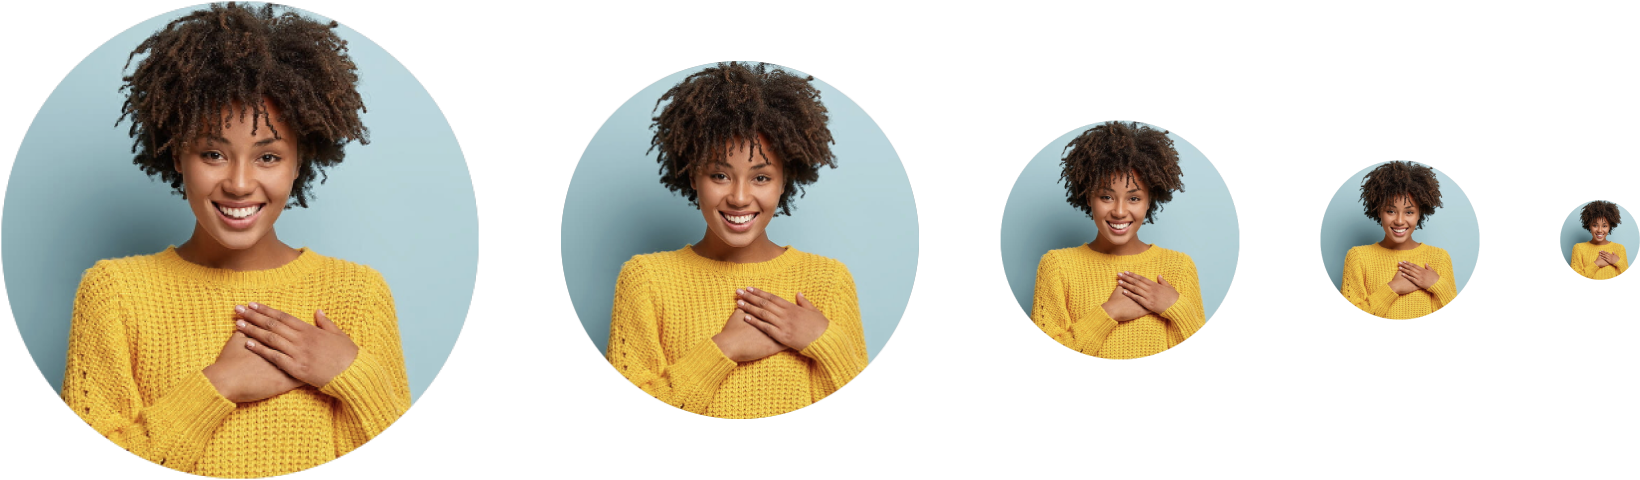
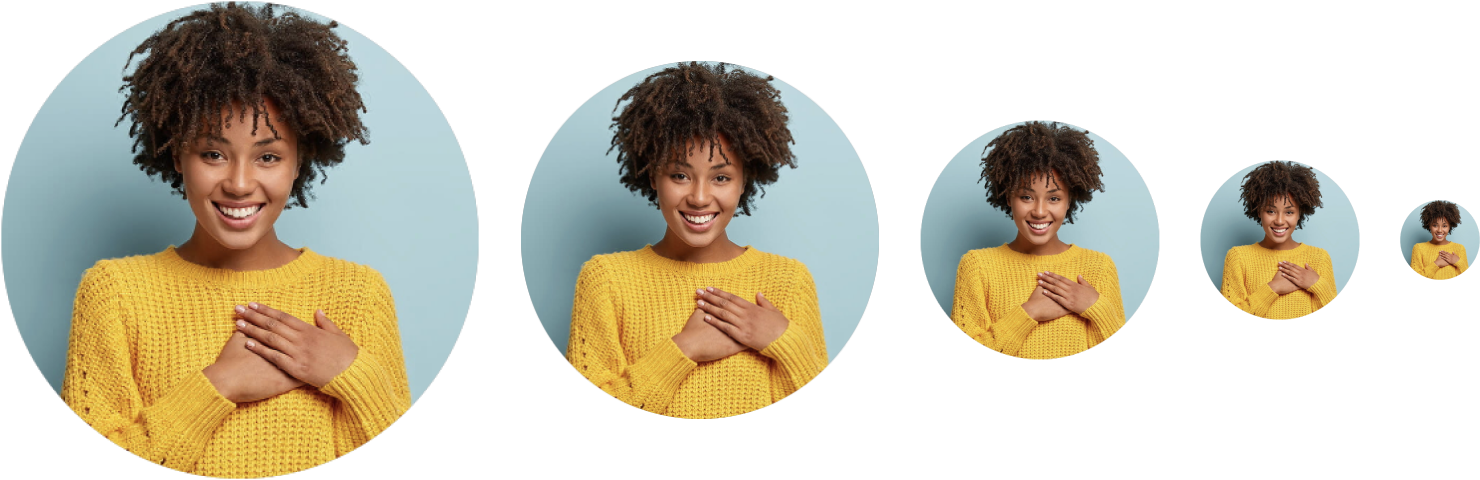
x

diff --git a/README.md b/README.md
@@ -75,7 +75,7 @@ Widget nullAvatarBrick() => AvatarBrick();
 
 #### Customize the avatar size
 
-<a href="https://github.com/congson99/avatar_brick/blob/son/release1.0.0/assets/screenshots/example_size.png?raw=true"><img src="https://github.com/congson99/avatar_brick/blob/son/release1.0.0/assets/screenshots/example_size.png?raw=true" alt="Icon" height="280"></a>
+<a href="https://github.com/congson99/avatar_brick/blob/son/release1.0.0/assets/screenshots/example_size.png?raw=true"><img src="https://github.com/congson99/avatar_brick/blob/son/release1.0.0/assets/screenshots/example_size.png?raw=true" alt="Icon"></a>
 
 You can customize the size of the avatar by passing the variable `size`. Try the following example:
 
